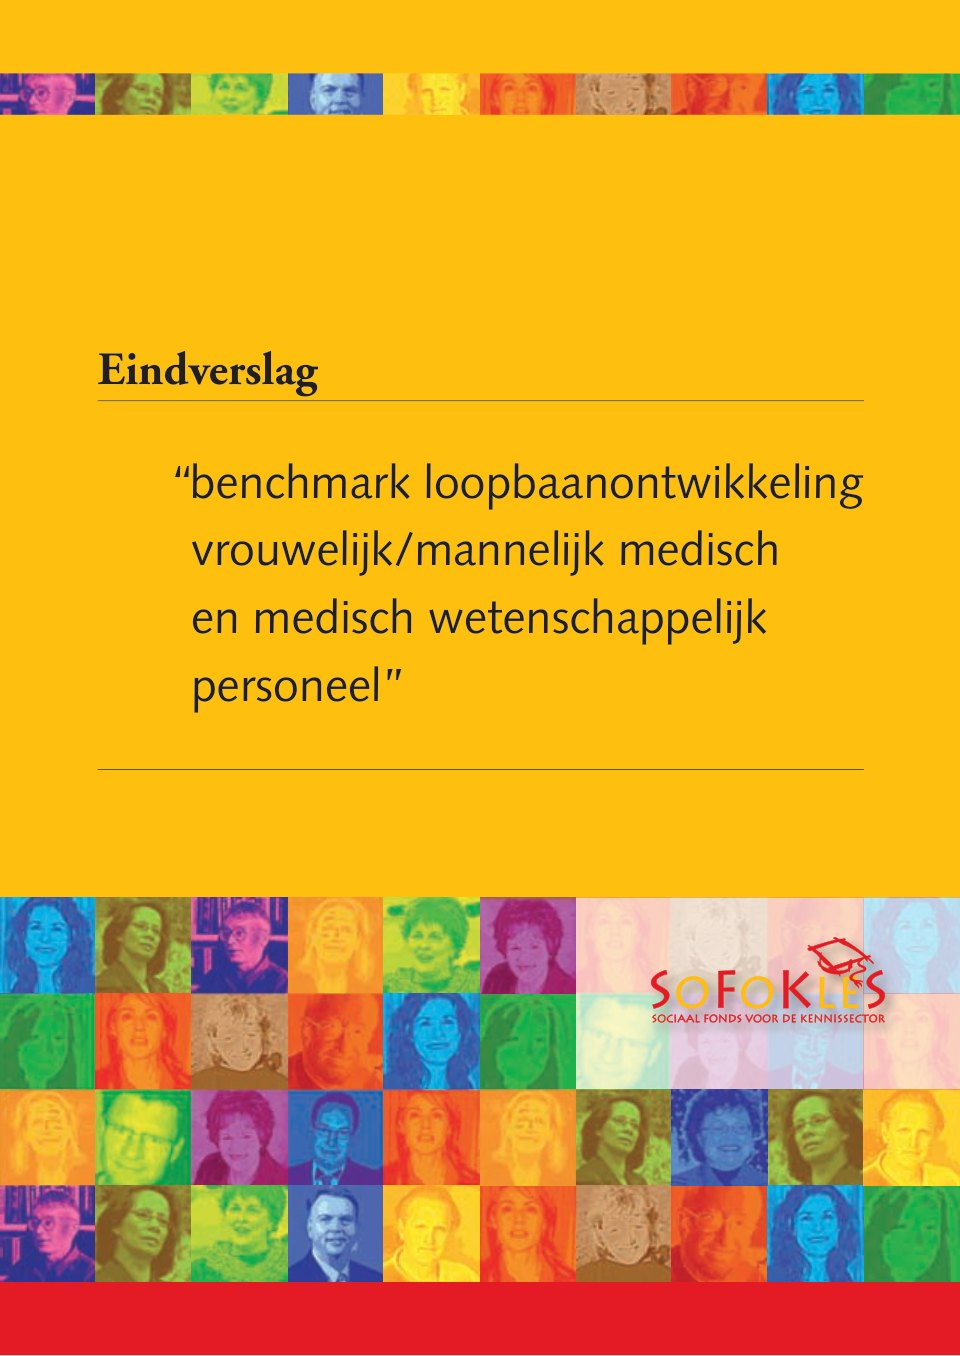
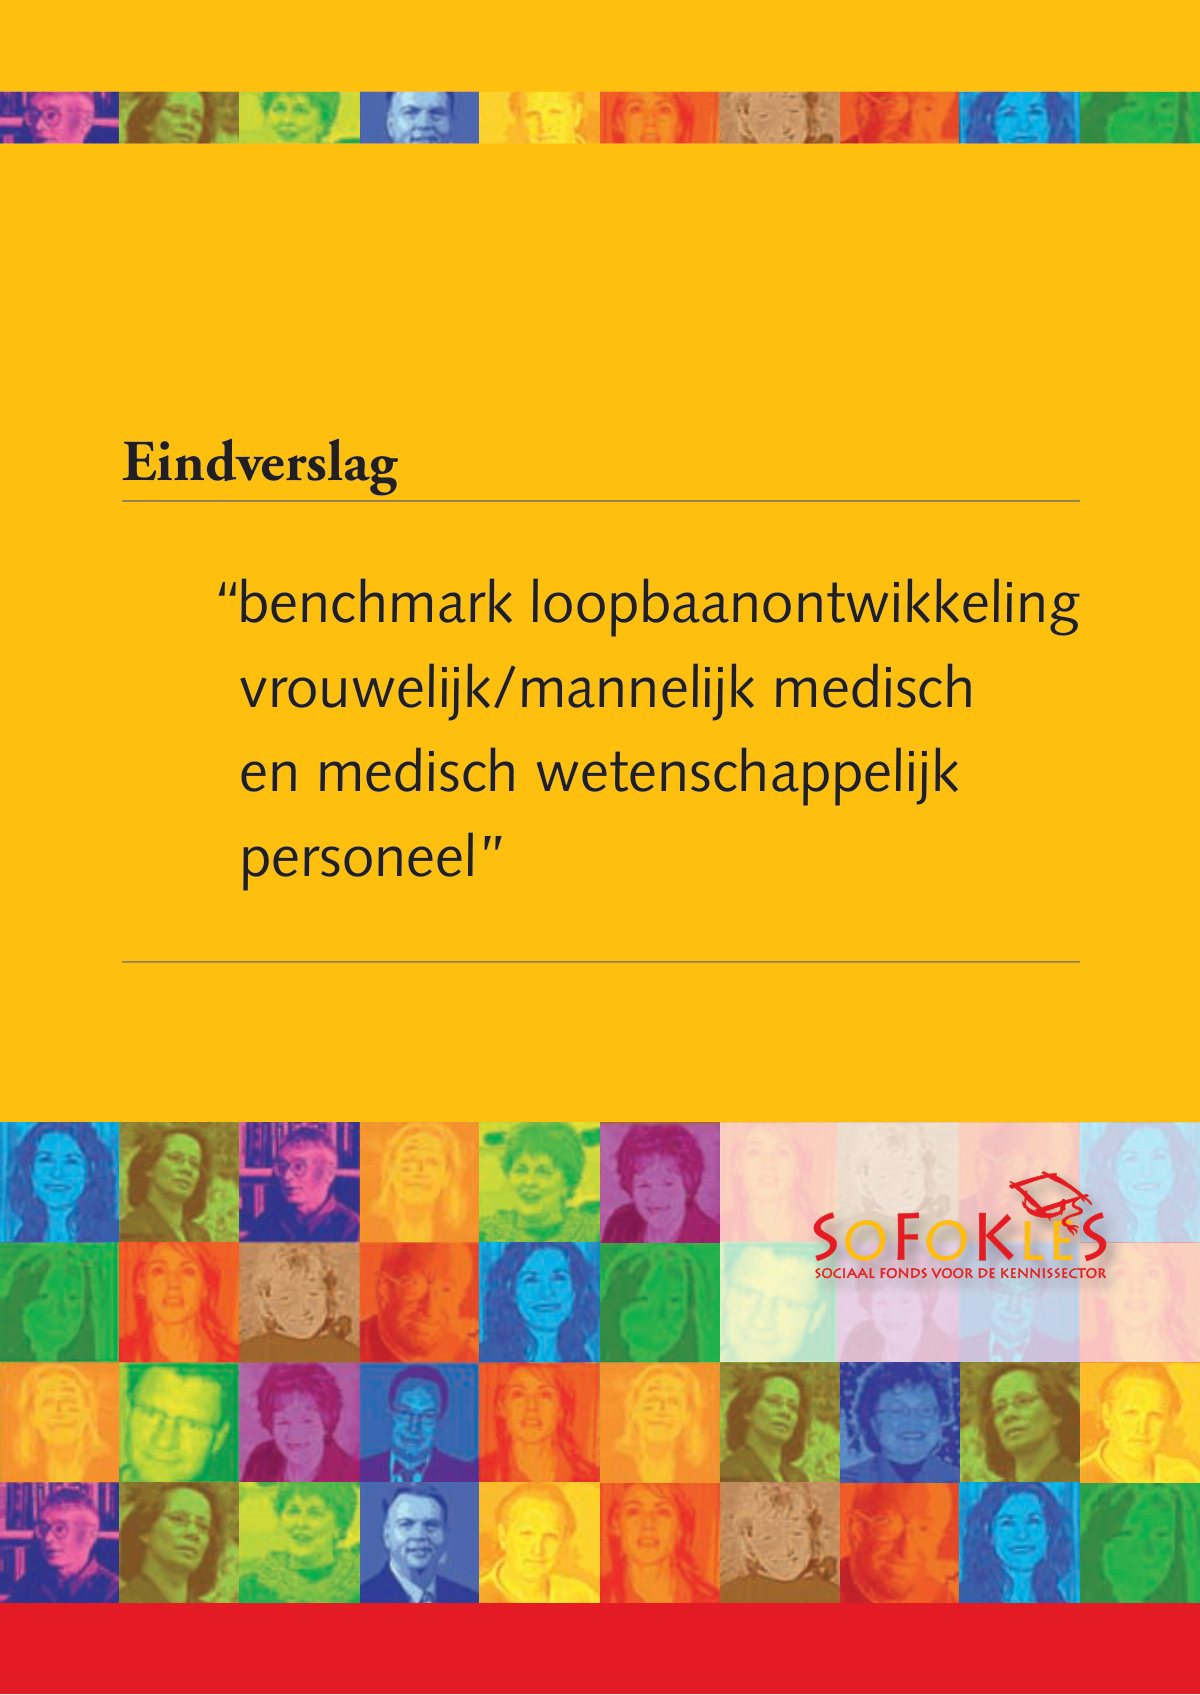
Make bento slides cover-fill their cards
Drop the colored-mat treatment: slides now flood each card edge to edge
with object-fit cover, positioned toward the top where cover titles
live. Covers re-rendered at 1200px (and the two non-PDF sources
re-derived at full size from the original mirror) for the larger crops.

Claude-Session: https://claude.ai/code/session_011HYR7PATGoii25yZLE762f

diff --git a/assets/css/style.css b/assets/css/style.css
@@ -361,18 +361,15 @@ section { scroll-margin-top: 4.5rem; }
 .bento-card .layer {
   position: absolute;
   inset: 0;
-  display: grid;
-  place-items: center;
 }
 .bento-card .layer img {
-  max-width: 86%;
-  max-height: 86%;
-  width: auto;
-  height: auto;
-  box-shadow: 0 10px 28px -12px rgba(0, 0, 0, .4);
-  transition: transform .25s ease;
+  width: 100%;
+  height: 100%;
+  object-fit: cover;
+  object-position: 50% 18%;
+  transition: transform .3s ease;
 }
-.bento-card:hover .layer img { transform: scale(1.02); }
+.bento-card:hover .layer img { transform: scale(1.03); }
 .bento-card .layer.top {
   z-index: 2;
   transition: opacity .9s ease;
